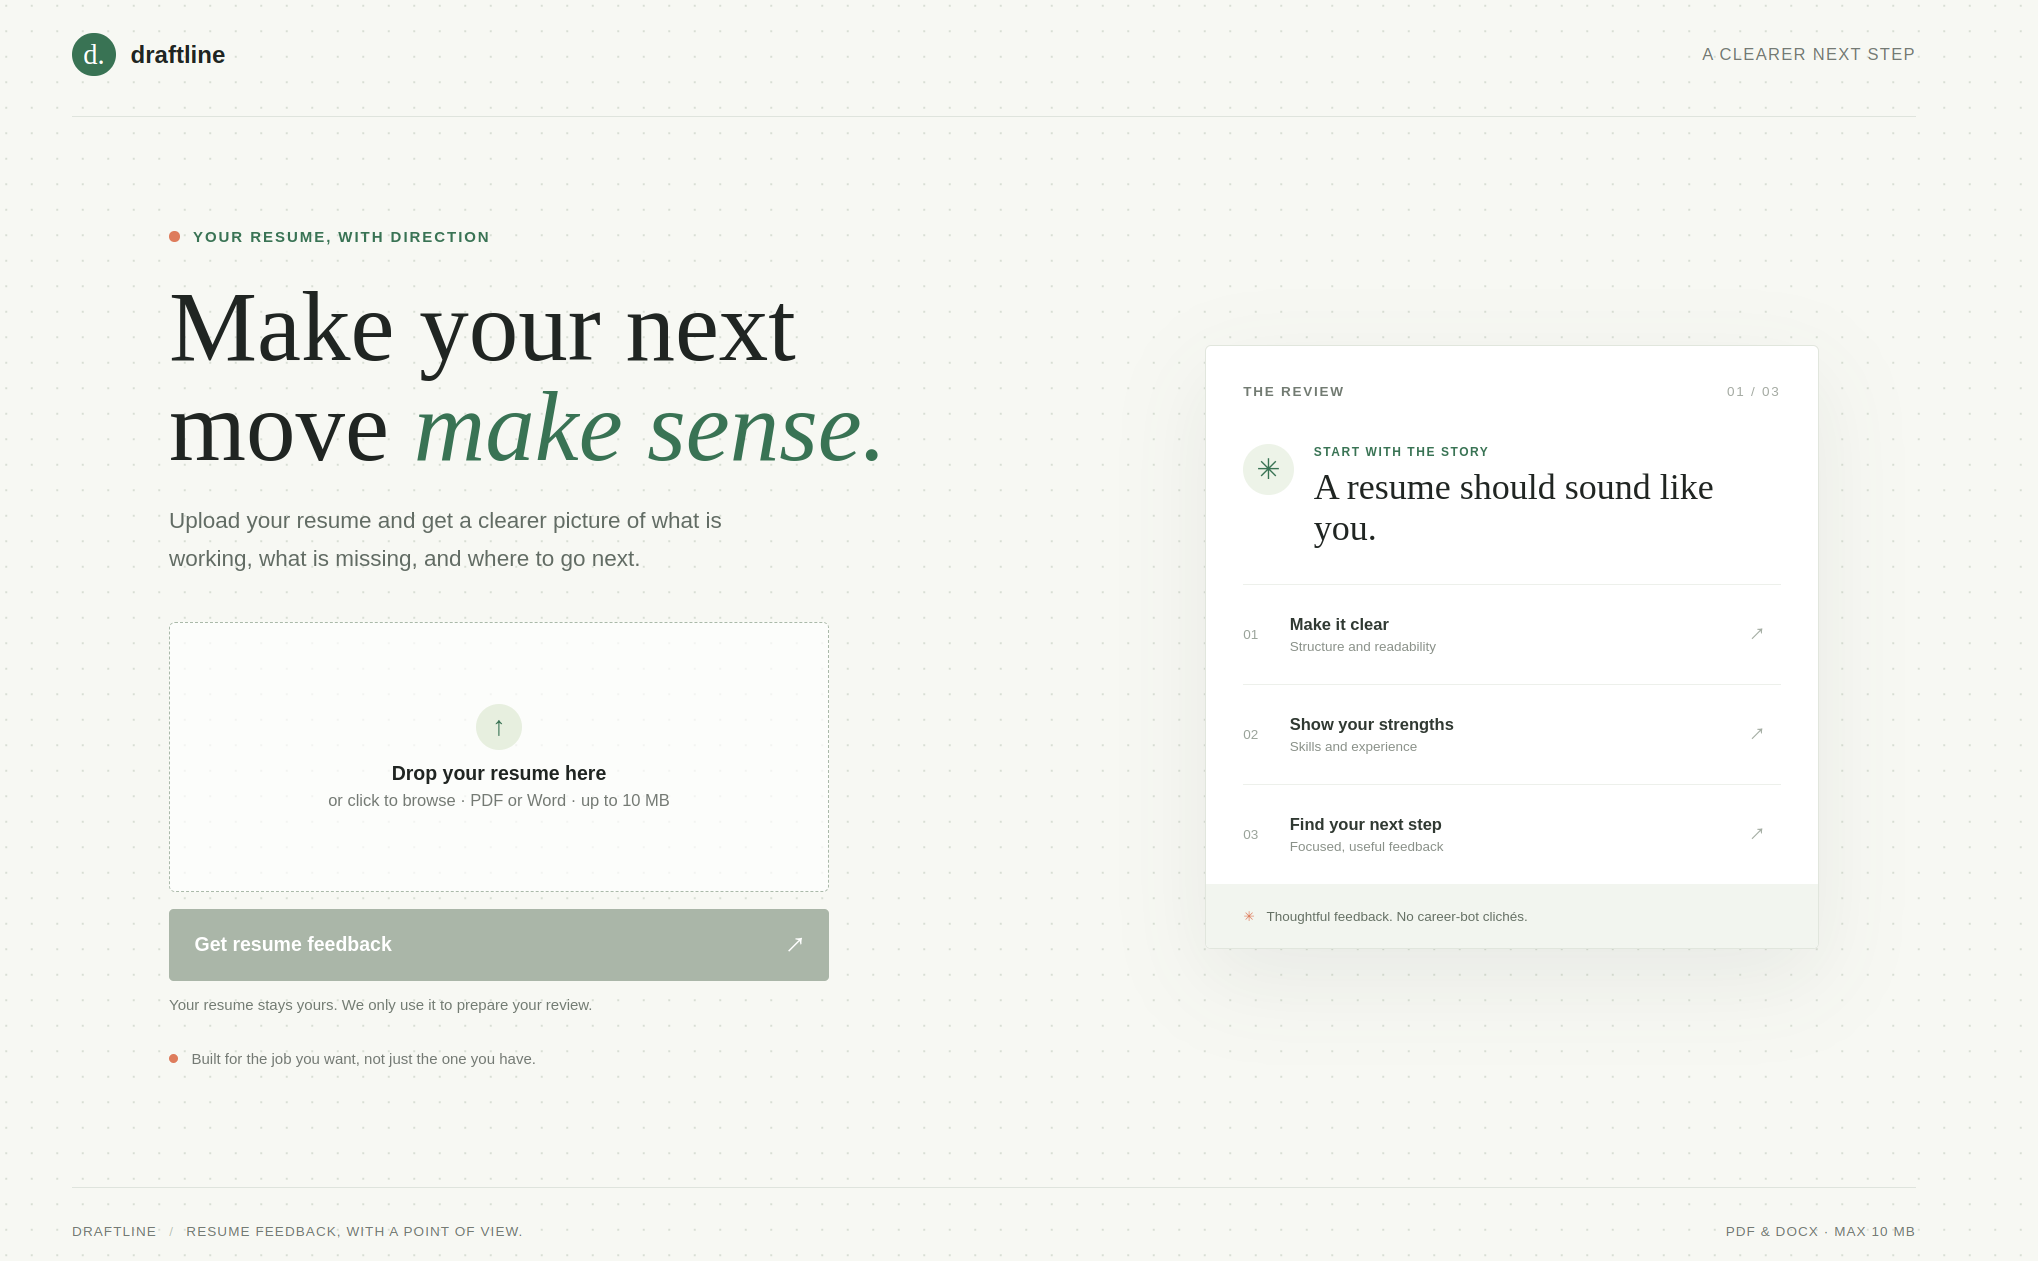
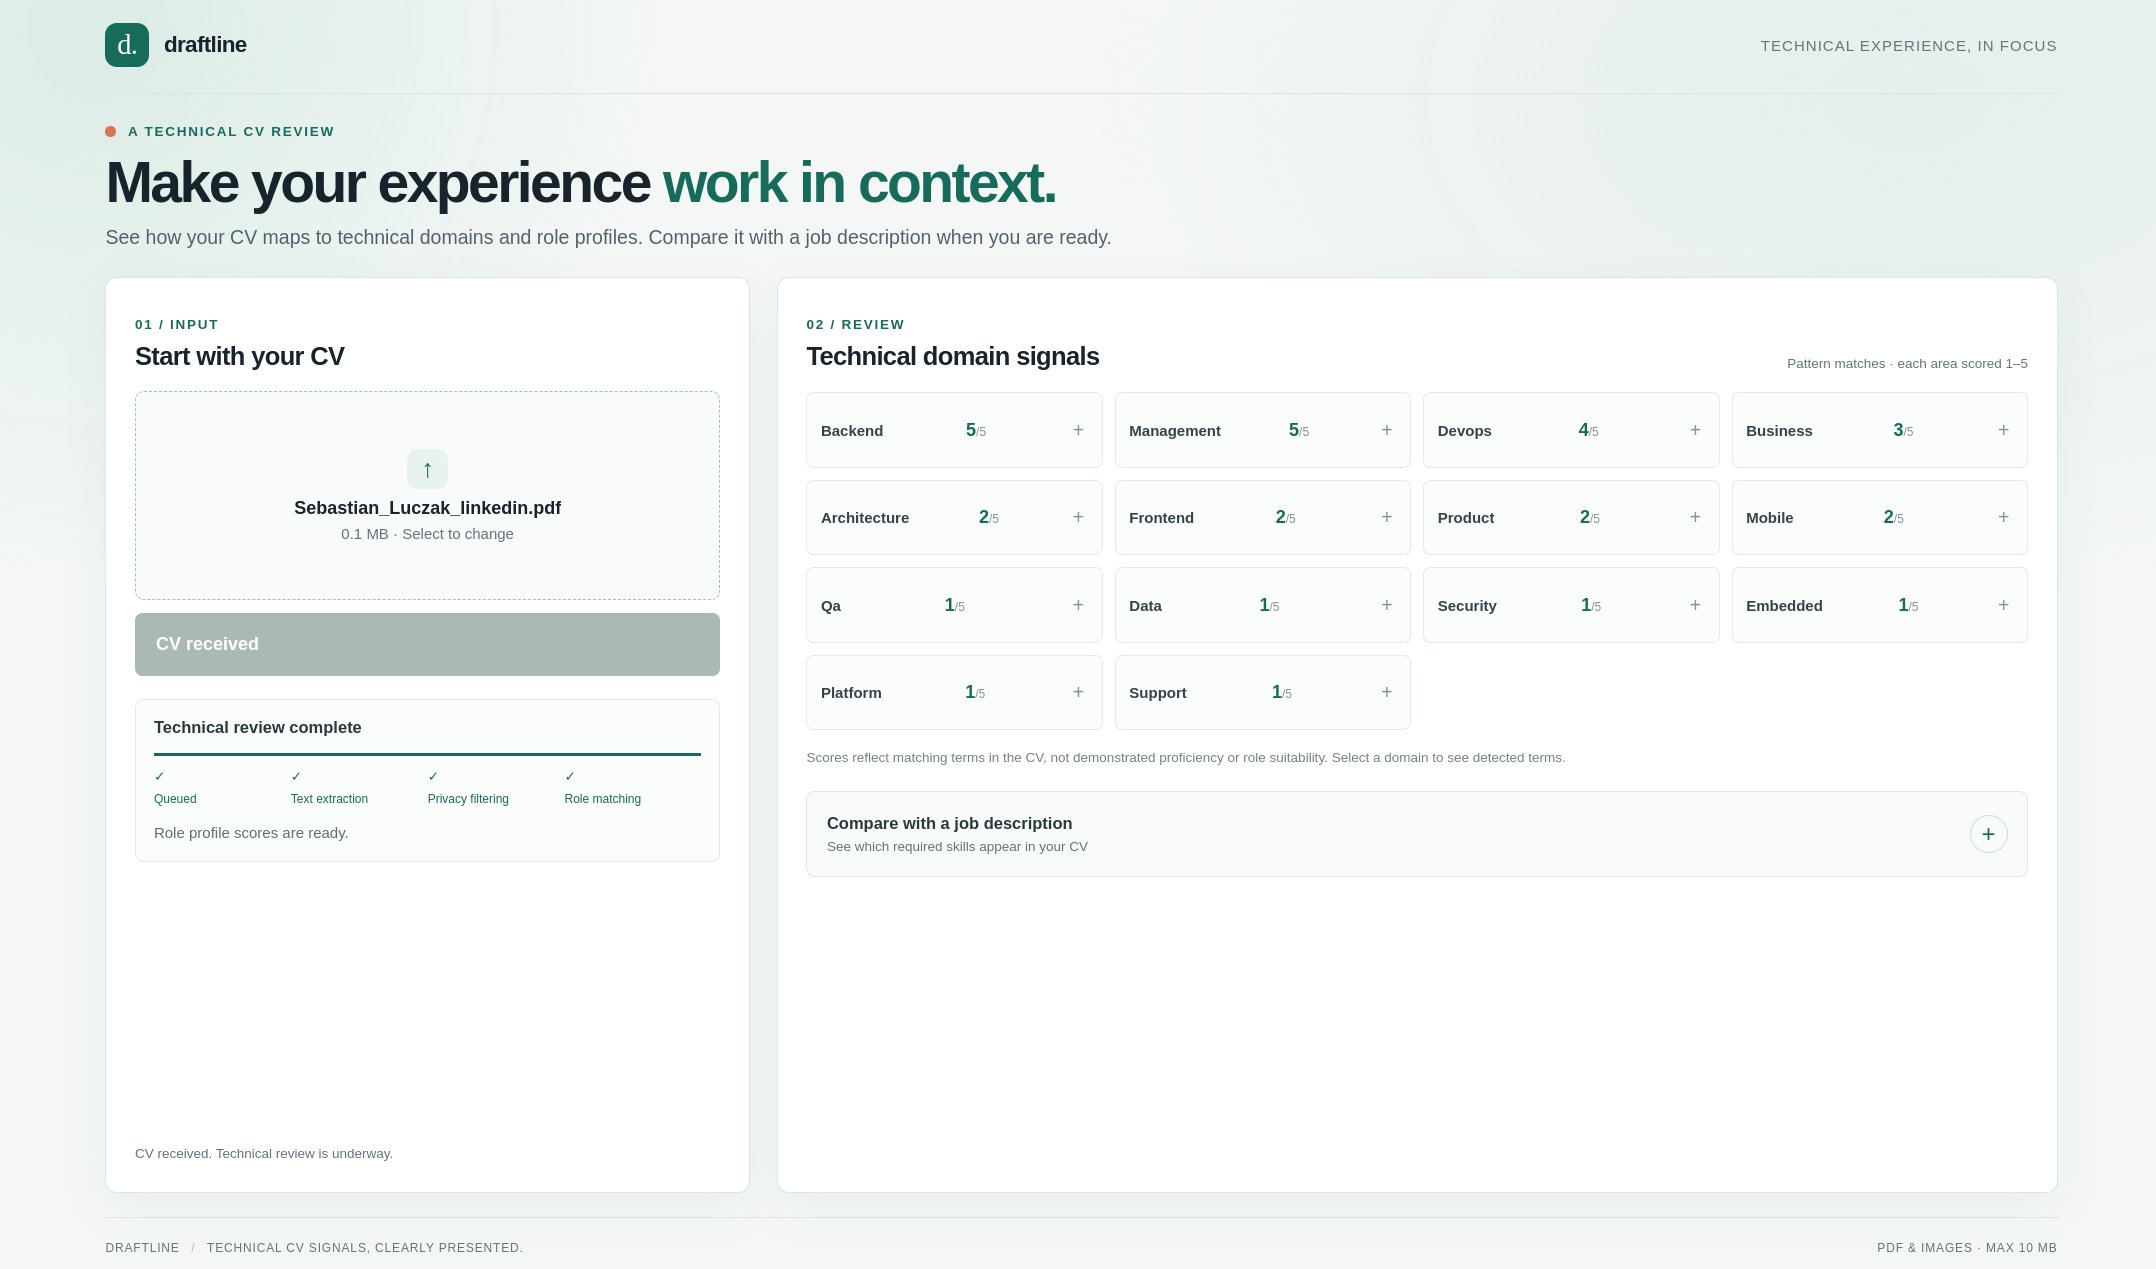
feat: enhance agent workflow documentation and add error handling in queue

diff --git a/services/skillmatcher/queue.go b/services/skillmatcher/queue.go
@@ -44,6 +44,9 @@ func safeLogField(value string) string {
 }
 
 func errorText(err error) string {
+	if err == nil {
+		return ""
+	}
 	message := strings.TrimSpace(err.Error())
 	if len(message) > 1024 {
 		return message[:1024]
